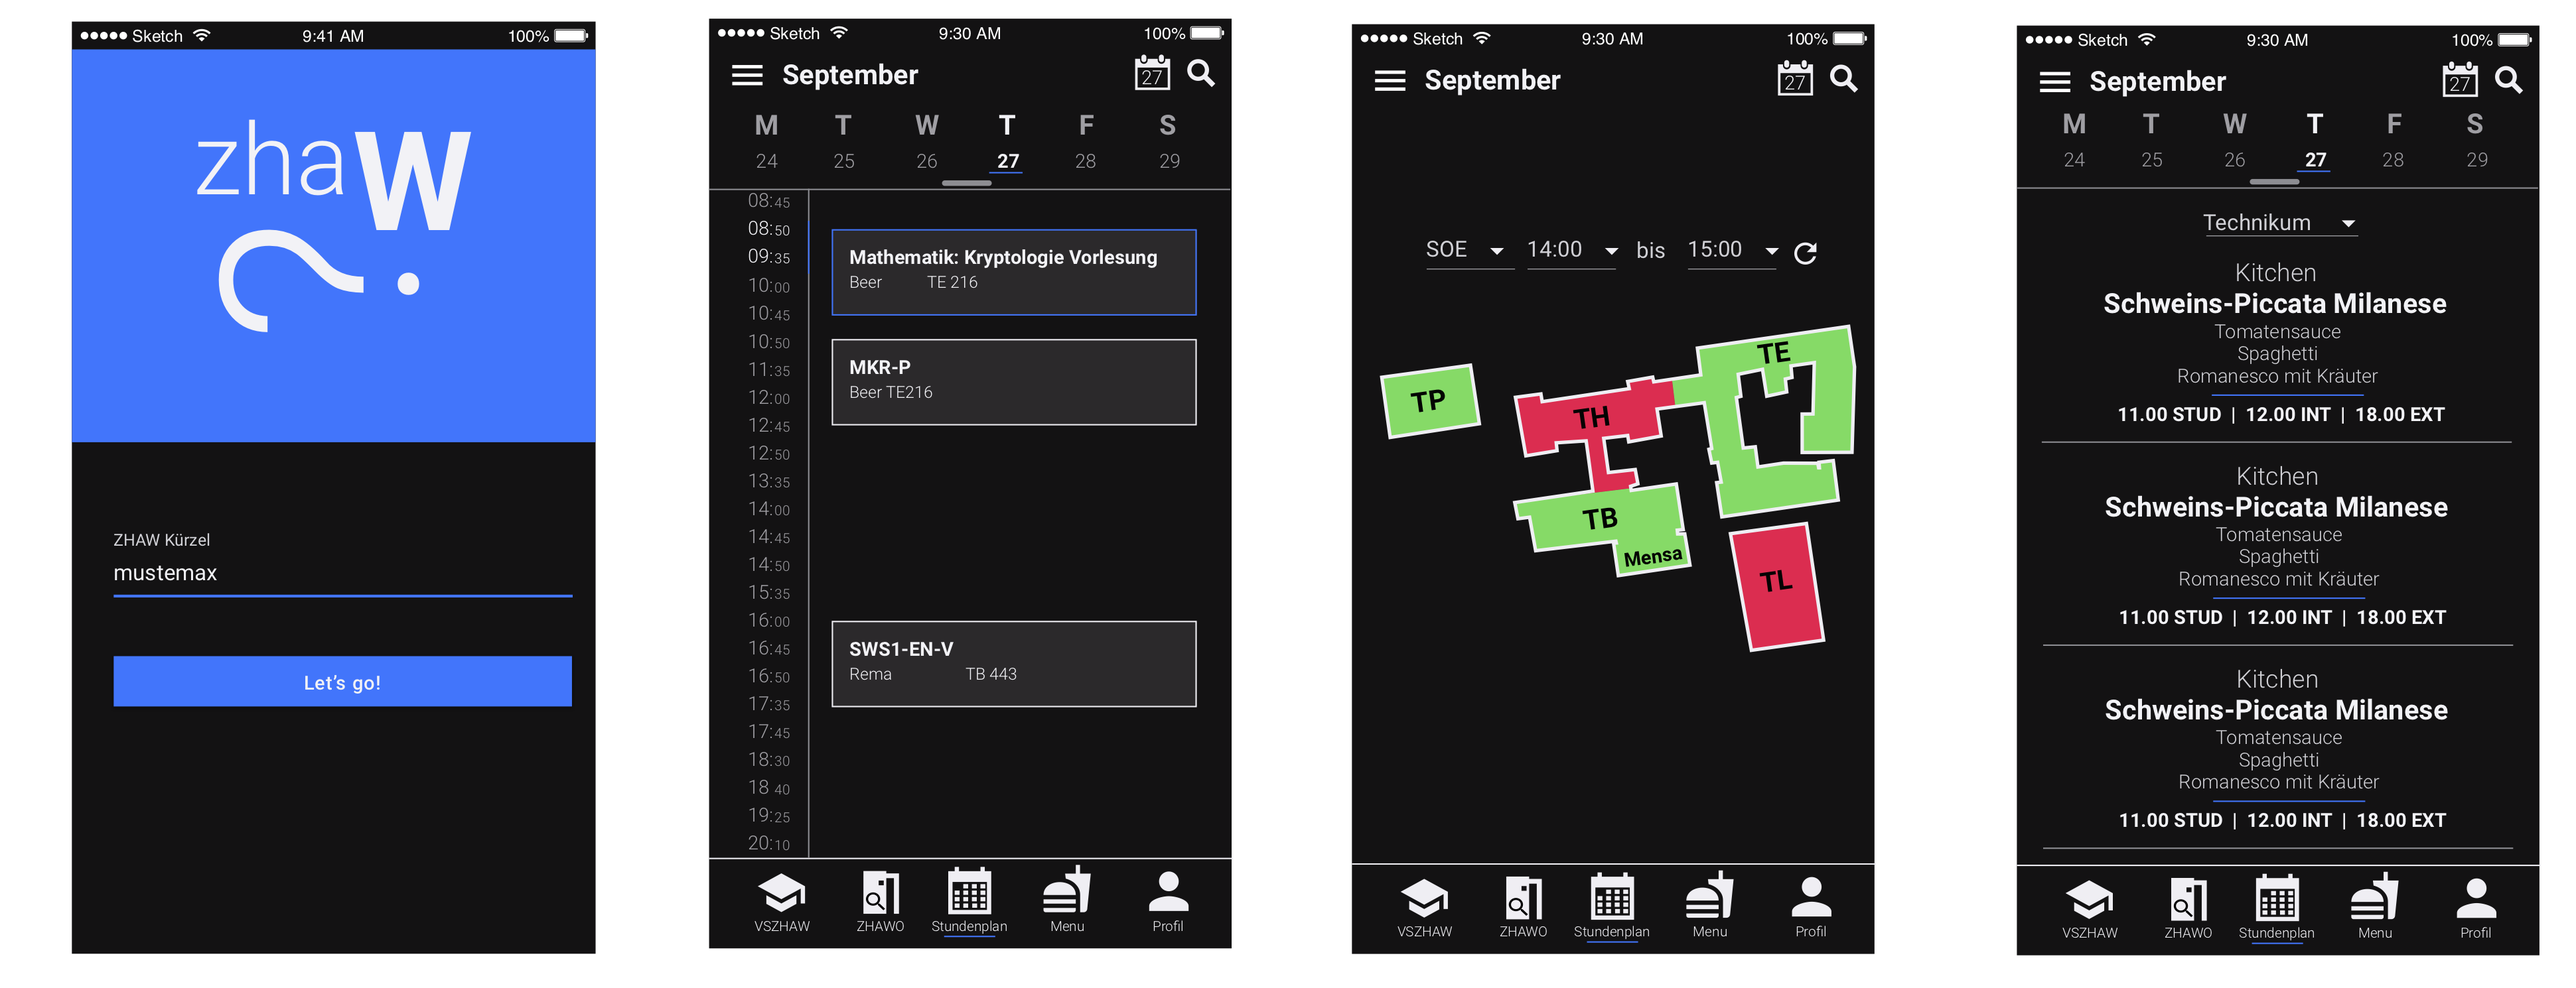
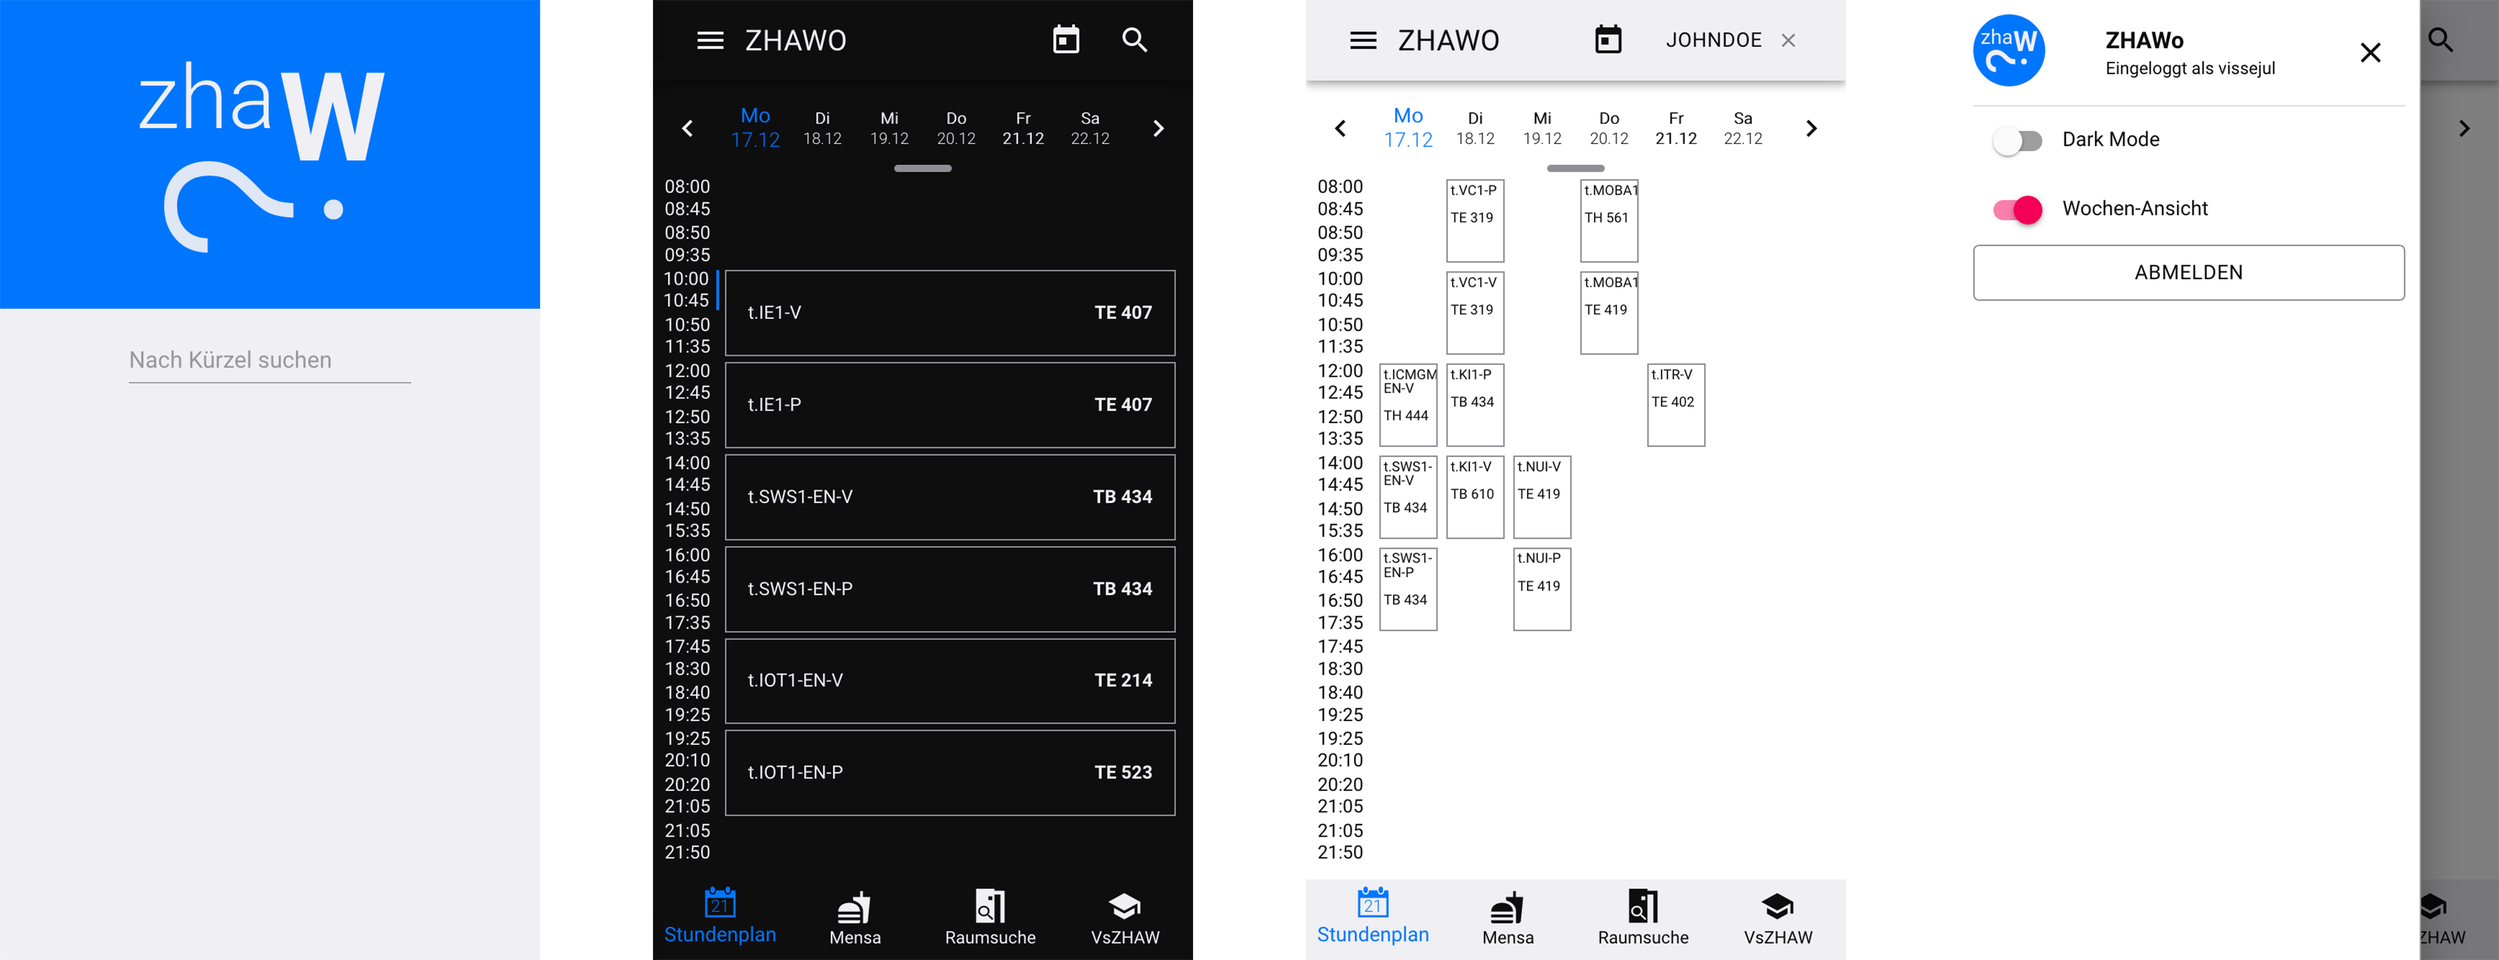
made new screenshots

diff --git a/source/frontend/app/containers/AppBarContainer/AppBarContainer.jsx b/source/frontend/app/containers/AppBarContainer/AppBarContainer.jsx
@@ -30,7 +30,7 @@ class AppBarContainer extends Component {
               <MenuIcon />
             </IconButton>
             <Typography variant="h6" color="inherit" className="flex">
-              ZHAWO
+              ZHAWo
             </Typography>
             {children}
           </Toolbar>
